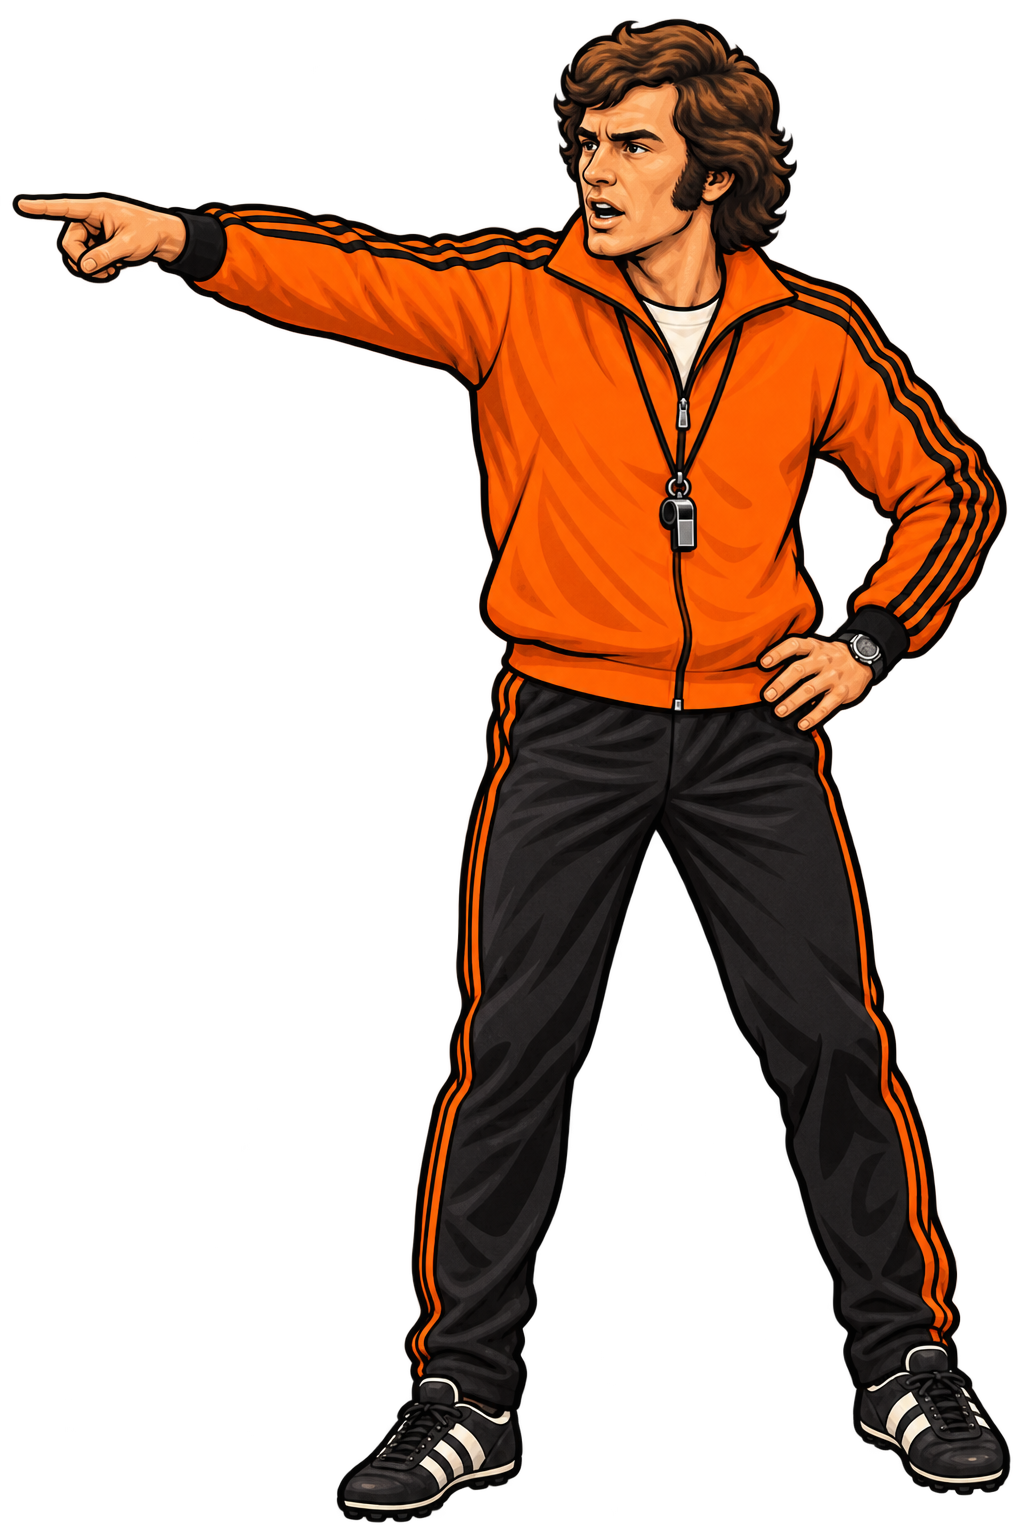
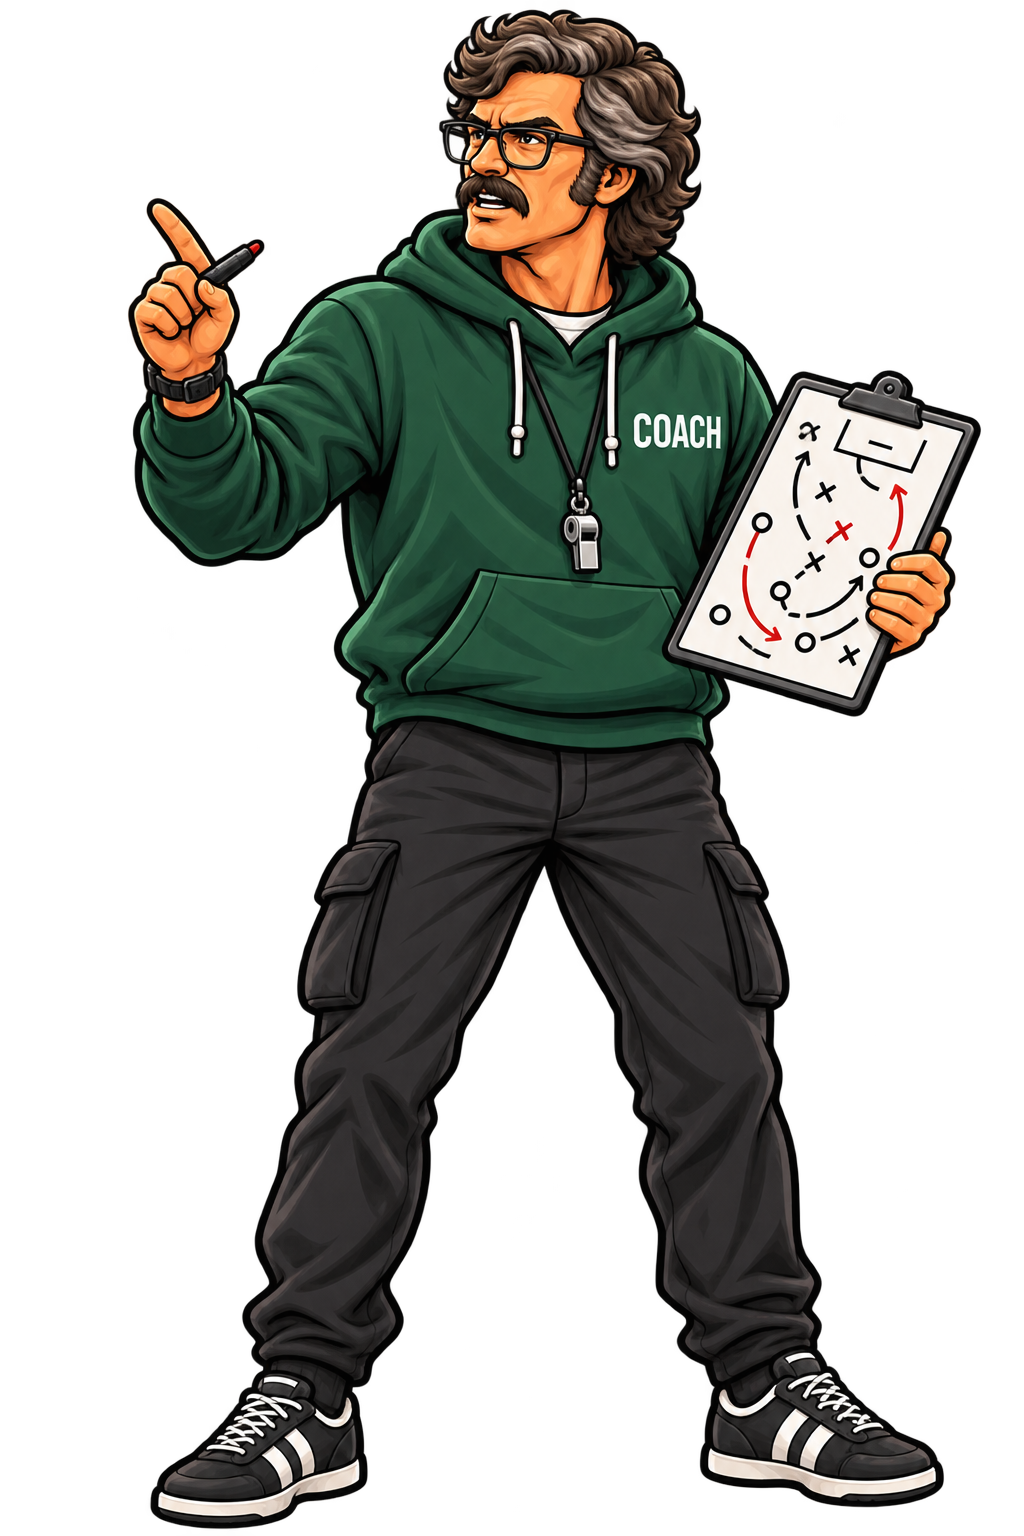
Refresh coach image
Claude-Session: https://claude.ai/code/session_01SJFgZ3ntddE1JVA3buEB2q

diff --git a/talk/index.html b/talk/index.html
@@ -392,7 +392,7 @@
         <path pathLength="1" d="M535 520 Q470 400 505 345" class="back"/>
       </g>
     </svg>
-    <img class="place figure" data-obj="coach" src="img/coach.png?v=3" alt="" style="left: 4520px; top: 3600px; width: 500px;">
+    <img class="place figure" data-obj="coach" src="img/coach.png?v=4" alt="" style="left: 4520px; top: 3600px; width: 500px;">
     <span data-obj="ai-boost" data-mirror="poster" hidden></span>
 
     <div class="place stamp" data-obj="stamp5" style="left: 3900px; top: 1760px;">Does not exist</div>
